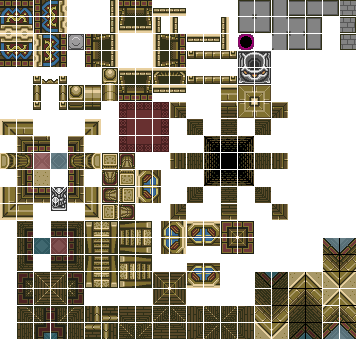
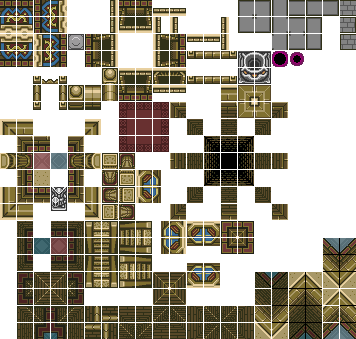
portals are in, but slightly imperfect based on where you come out the other side

Changed region(s): [[0.7416, 0.1475, 0.8652, 0.2065], [0.6489, 0.0885, 0.7107, 0.1475]]

diff --git a/maptiles.js b/maptiles.js
@@ -141,16 +141,38 @@ class Portal {
     constructor(xLoc, yLoc, portalName, mapCellX=null, mapCellY=null, bgTile=null) {
         Object.assign(this, {xLoc, yLoc, portalName, mapCellX, mapCellY, bgTile});
         this.linkedTo = null;
+        this.destOffset = {'x':0, 'y':0};
+        this.collider = {type: "box", corner: {x:xLoc, y: yLoc}, height: 16 * SCALE, width: 16 * SCALE};
     }
 
     update() {
+        let pc = Player.CURR_PLAYER;
+        let playerCollided = checkCollision(this, pc);
+        
+        if (playerCollided && this.linkedTo != null) {
+            
+            let currMapCellX = gameEngine.currMap.getMapCellX(),
+                currMapCellY = gameEngine.currMap.getMapCellY(),
+                destMapCellX = this.linkedTo.mapCellX,
+                destMapCellY = this.linkedTo.mapCellY;
 
+            if (currMapCellX != destMapCellX || currMapCellY != destMapCellY) {
+                gameEngine.currMap.teleportPlayerToMapCell(destMapCellX, destMapCellY);
+            }
+
+            //console.log(Player.CURR_PLAYER.phys2d.velocity);
+            Player.CURR_PLAYER.x = this.linkedTo.xLoc + Math.round(Player.CURR_PLAYER.phys2d.velocity.x) * 16 * SCALE;
+            Player.CURR_PLAYER.y = this.linkedTo.yLoc + Math.round(Player.CURR_PLAYER.phys2d.velocity.y) * 16 * SCALE;
+
+            
+        }
     };
 
     draw(ctx, scale) {
-        let tileString = 'portal';
-        if (this.bgTile!=null)
-            tileString = this.bgTile;
-        GRAPHICS.get(tileString).drawTile(ctx, this.xLoc, this.yLoc);
+        GRAPHICS.get('ANIMA_portal').animate(gameEngine.clockTick, ctx, this.xLoc, this.yLoc, scale)
     };
+
+    setLinkedEntity(linkedEntity) {
+        this.linkedTo = linkedEntity;
+    }
 }

diff --git a/rendering/graphics_loader.js b/rendering/graphics_loader.js
@@ -24,11 +24,18 @@ class GraphicsLoader {
 
         GRAPHICS.addSpriteSet(
             'environment', 'CASTLE_TILES',
-            [238, 255, 272, 238, 255, 272, 238],
-            [0, 0, 0, 17, 17, 17, 34],
+            [238, 255, 272, 238, 255, 272],
+            [0, 0, 0, 17, 17, 17],
             16, 16, 0, 0, 
-            ['wall_NW', 'wall_NE', 'wall_VERT', 'wall_SW', 'wall_SE', 'wall_HORIZ',
-             'portal']
+            ['wall_NW', 'wall_NE', 'wall_VERT', 'wall_SW', 'wall_SE', 'wall_HORIZ']
+        );
+
+        GRAPHICS.addSpriteSet(
+            'portals', 'CASTLE_TILES', 
+            [272, 289],
+            [51, 51],
+            16, 16, 0, 0
+            ['portal', 'portal2']
         );
 
         const spt = GRAPHICS.get('environment');
@@ -48,10 +55,8 @@ class GraphicsLoader {
         GRAPHICS.addTile('wall_SE', spt.gsl('wall_SE'));
         GRAPHICS.addTile('wall_HORIZ', spt.gsl('wall_HORIZ'));
         
-        GRAPHICS.addTile('portal', spt.gsl('portal'));
-        GRAPHICS.addTile('portal_grass', spt.gsl('grass_thick'), spt.gsl('portal'));
-        GRAPHICS.addTile('portal_sand', spt.gsl('sand'), spt.gsl('portal'));
-        GRAPHICS.addTile('portal_blue_cobble', spt.gsl('floor_blue_cobblestone'), spt.gsl('portal'));
+        //GRAPHICS.addTile('portal', spt.gsl('portal'));
+        GRAPHICS.addAnimation('ANIMA_portal', 'portals', 2, 0.7);
 
         // const theSprites = GRAPHICS.get('environment');
         // theSprites.forEach(sprite => {

diff --git a/main.js b/main.js
@@ -42,6 +42,8 @@ ASSET_MANAGER.downloadAll(() => {
 		'#444444':'wall_complex'
 	});
 
+	gameEngine.currMap = testMap;
+
 	////////////////////////////////////////////////////////////
 	// testMap.addMapCellEntity(2, 2, new Knight(500, 600));
 	// testMap.addMapCellEntity(2, 2, new Knight(600, 600)); 
@@ -79,6 +81,21 @@ ASSET_MANAGER.downloadAll(() => {
 	testMap.addMapCellEntity(2, 4, new Skull(r3_SkullXY.x, r3_SkullXY.y));
 	testMap.addMapCellEntity(2, 4, new Skull(r3_Skull2XY.x, r3_Skull2XY.y));
 	
+	// PORTAL TEST STUFF
+	let test_portal1XY = tileToScreenCoord(4, 4);
+	let test_portal1 = new Portal(test_portal1XY.x, test_portal1XY.y, 'portal1', 1, 2);
+	test_portal1.destOffset.y = 16*SCALE;
+	
+	let test_portal2XY = tileToScreenCoord(14, 4);
+	let test_portal2 = new Portal(test_portal2XY.x, test_portal2XY.y, 'portal2', 1, 2);
+	test_portal2.destOffset.y = 16*SCALE;
+
+	testMap.addMapCellEntity(1, 2, test_portal1);
+	testMap.addMapCellEntity(1, 2, test_portal2);
+
+	test_portal1.setLinkedEntity(test_portal2);
+	test_portal2.setLinkedEntity(test_portal1);
+	
 	// actual starting room is (1, 2)
 	let startMapCellX = 1,
 		startMapCellY = 2;
@@ -88,8 +105,6 @@ ASSET_MANAGER.downloadAll(() => {
 	
 	testMap.addMapEntitiesToEngine(gameEngine);
 	testMap.addInteractableToEngine(gameEngine);
-	
-	gameEngine.currMap = testMap;
 
 	gameEngine.init(ctx);
 

diff --git a/map.js b/map.js
@@ -67,6 +67,13 @@ class GameMap {
         
     }
 
+    teleportPlayerToMapCell(destCellX, destCellY) {
+        gameEngine.scene.clearScene();
+        this.loadMapCell(destCellX, destCellY);
+        this.addMapEntitiesToEngine(gameEngine);
+        this.addInteractableToEngine(gameEngine);
+    }
+
     pixelToHexColor(pixel) {
         let r = Number(pixel[0]).toString(16).padStart(2, "0");
         let g = Number(pixel[1]).toString(16).padStart(2, "0");
